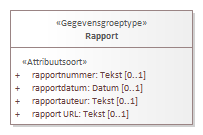
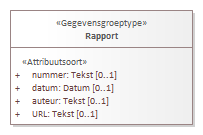
Conceptualmodel-MilieuhygienischbodemonderzoekSAD-0.2-1-20230706-20231031-104525

Changed region(s): [[0.1478, 0.6222, 0.7094, 0.8889], [0.1478, 0.5037, 0.7389, 0.5926]]

diff --git a/data/SAD-cat.msword.html b/data/SAD-cat.msword.html
@@ -15,7 +15,7 @@
    <body>
       <p>Conceptual model/Milieuhygienisch bodemonderzoek SAD/20230706</p>
       <p>Imvertor: 3.0.0</p>
-      <p>Model release: Conceptualmodel-MilieuhygienischbodemonderzoekSAD-0.2-1-20230706-20231031-103922</p>
+      <p>Model release: Conceptualmodel-MilieuhygienischbodemonderzoekSAD-0.2-1-20230706-20231031-104525</p>
       <hr>
       <section>
          <h1>Artikel 1 Definitie van registratieobject, entiteiten en attributen</h1>
@@ -1897,8 +1897,8 @@
                         </tr>
                      </tbody>
                   </table>
-                  <section id="detail_attribute_Model_Rapport_rapportnummer">
-                     <h4>  rapportnummer</h4>
+                  <section id="detail_attribute_Model_Rapport_nummer">
+                     <h4>  nummer</h4>
                      
                      <table style="width: 100%;">
                         <colgroup style="width: 30%;"></colgroup>
@@ -1935,8 +1935,8 @@
                         </tbody>
                      </table>
                      </section>
-                  <section id="detail_attribute_Model_Rapport_rapportdatum">
-                     <h4>  rapportdatum</h4>
+                  <section id="detail_attribute_Model_Rapport_datum">
+                     <h4>  datum</h4>
                      
                      <table style="width: 100%;">
                         <colgroup style="width: 30%;"></colgroup>
@@ -1985,8 +1985,8 @@
                         </tbody>
                      </table>
                      </section>
-                  <section id="detail_attribute_Model_Rapport_rapportauteur">
-                     <h4>  rapportauteur</h4>
+                  <section id="detail_attribute_Model_Rapport_auteur">
+                     <h4>  auteur</h4>
                      
                      <table style="width: 100%;">
                         <colgroup style="width: 30%;"></colgroup>
@@ -2022,8 +2022,8 @@
                         </tbody>
                      </table>
                      </section>
-                  <section id="detail_attribute_Model_Rapport_rapportURL">
-                     <h4>  rapport URL</h4>
+                  <section id="detail_attribute_Model_Rapport_URL">
+                     <h4>  URL</h4>
                      
                      <table style="width: 100%;">
                         <colgroup style="width: 30%;"></colgroup>

diff --git a/data/SAD-cat.respec.html b/data/SAD-cat.respec.html
@@ -1873,8 +1873,8 @@
                </tr>
             </tbody>
          </table>
-         <section id="detail_attribute_Model_Rapport_rapportnummer">
-            <h4>  rapportnummer</h4>
+         <section id="detail_attribute_Model_Rapport_nummer">
+            <h4>  nummer</h4>
             
             <table style="width: 100%;">
                <colgroup style="width: 30%;"></colgroup>
@@ -1911,8 +1911,8 @@
                </tbody>
             </table>
             </section>
-         <section id="detail_attribute_Model_Rapport_rapportdatum">
-            <h4>  rapportdatum</h4>
+         <section id="detail_attribute_Model_Rapport_datum">
+            <h4>  datum</h4>
             
             <table style="width: 100%;">
                <colgroup style="width: 30%;"></colgroup>
@@ -1961,8 +1961,8 @@
                </tbody>
             </table>
             </section>
-         <section id="detail_attribute_Model_Rapport_rapportauteur">
-            <h4>  rapportauteur</h4>
+         <section id="detail_attribute_Model_Rapport_auteur">
+            <h4>  auteur</h4>
             
             <table style="width: 100%;">
                <colgroup style="width: 30%;"></colgroup>
@@ -1998,8 +1998,8 @@
                </tbody>
             </table>
             </section>
-         <section id="detail_attribute_Model_Rapport_rapportURL">
-            <h4>  rapport URL</h4>
+         <section id="detail_attribute_Model_Rapport_URL">
+            <h4>  URL</h4>
             
             <table style="width: 100%;">
                <colgroup style="width: 30%;"></colgroup>
